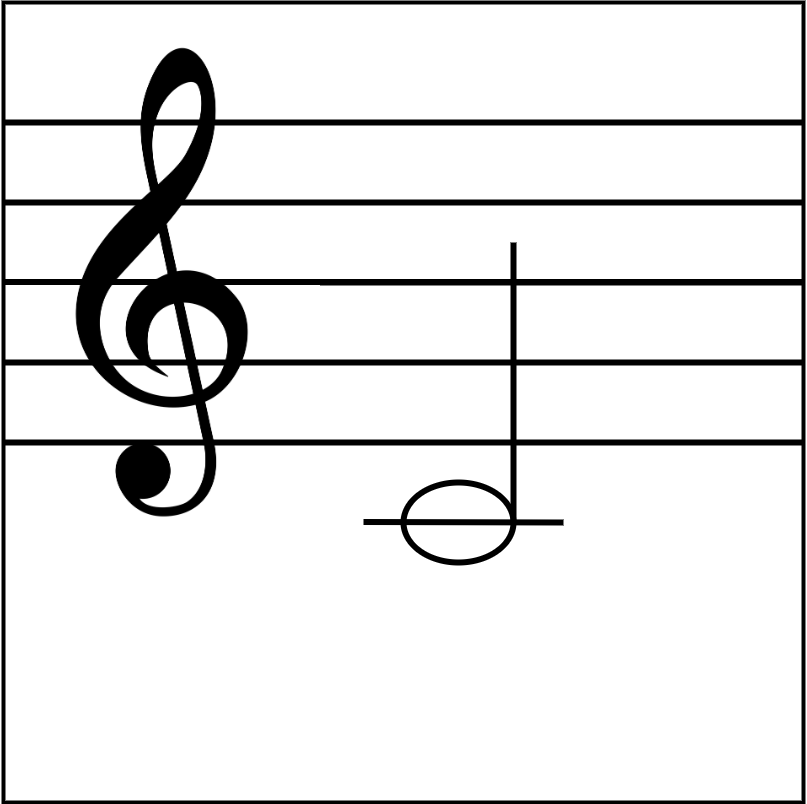
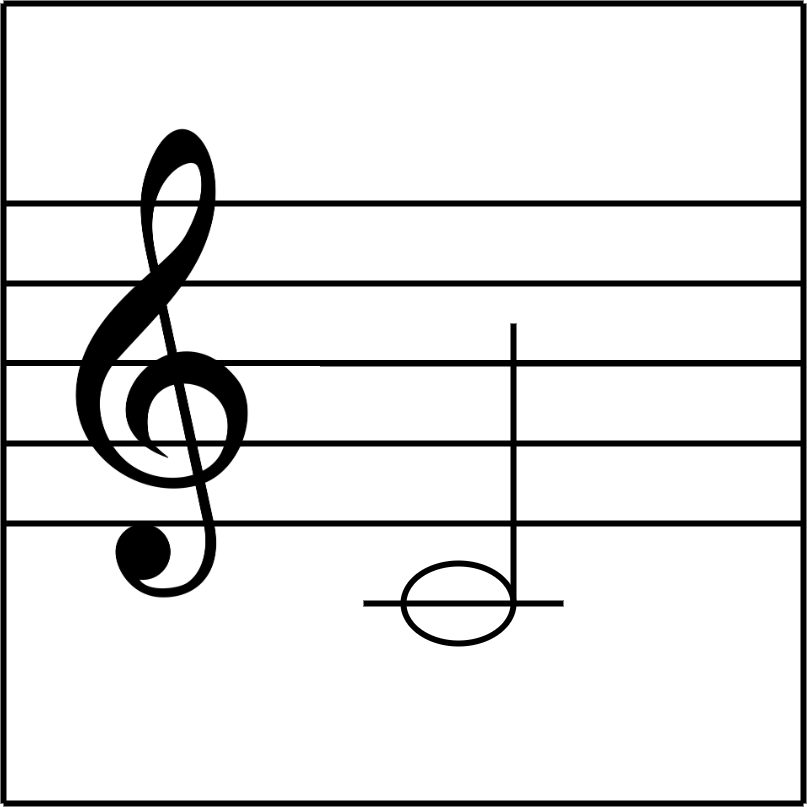
aniado nuevas notas-tres octavas de Mi

Changed region(s): [[0.0, 0.0, 1.0, 1.0], [0.6196, 0.3109, 0.6506, 0.4042]]

diff --git a/FlashcardsPrueba.py b/FlashcardsPrueba.py
@@ -11,11 +11,23 @@ flashcards = [
     {"pregunta": "F:/programacion/flashcards/images/NotasPentagrama/Sol.png", "respuesta": "F:/programacion/flashcards/images/NotasPentagrama/R_Sol.png"},
     {"pregunta": "F:/programacion/flashcards/images/NotasPentagrama/La.png", "respuesta": "F:/programacion/flashcards/images/NotasPentagrama/R_La.png"},
     {"pregunta": "F:/programacion/flashcards/images/NotasPentagrama/Si.png", "respuesta": "F:/programacion/flashcards/images/NotasPentagrama/R_Si.png"},
+
     {"pregunta": "F:/programacion/flashcards/images/NotasPentagrama/Do2.png", "respuesta": "F:/programacion/flashcards/images/NotasPentagrama/R_Do.png"},
+    {"pregunta": "F:/programacion/flashcards/images/NotasPentagrama/Re2.png", "respuesta": "F:/programacion/flashcards/images/NotasPentagrama/R_Re.png"},
+    {"pregunta": "F:/programacion/flashcards/images/NotasPentagrama/Mi2.png", "respuesta": "F:/programacion/flashcards/images/NotasPentagrama/R_Mi.png"},
+    {"pregunta": "F:/programacion/flashcards/images/NotasPentagrama/Fa2.png", "respuesta": "F:/programacion/flashcards/images/NotasPentagrama/R_Fa.png"},
+    {"pregunta": "F:/programacion/flashcards/images/NotasPentagrama/Sol2.png", "respuesta": "F:/programacion/flashcards/images/NotasPentagrama/R_Sol.png"},
+    
+    {"pregunta": "F:/programacion/flashcards/images/NotasPentagrama/Mi3.png", "respuesta": "F:/programacion/flashcards/images/NotasPentagrama/R_Mi.png"},
+    {"pregunta": "F:/programacion/flashcards/images/NotasPentagrama/Fa3.png", "respuesta": "F:/programacion/flashcards/images/NotasPentagrama/R_Fa.png"},
+    {"pregunta": "F:/programacion/flashcards/images/NotasPentagrama/Sol3.png", "respuesta": "F:/programacion/flashcards/images/NotasPentagrama/R_Sol.png"},
+    {"pregunta": "F:/programacion/flashcards/images/NotasPentagrama/La3.png", "respuesta": "F:/programacion/flashcards/images/NotasPentagrama/R_La.png"},
+    {"pregunta": "F:/programacion/flashcards/images/NotasPentagrama/Si3.png", "respuesta": "F:/programacion/flashcards/images/NotasPentagrama/R_Si.png"},
 
 ]
 import tkinter as tk
 from PIL import Image, ImageTk
+
 class FlashcardApp:
     def __init__(self, root):
         self.root = root
@@ -31,36 +43,53 @@ class FlashcardApp:
         self.flashcard_image2 = self.load_and_resize_image("F:/programacion/flashcards/images/NotasPentagrama/Cuadrado.png")
         self.flashcard_label2 = tk.Label(root, image=self.flashcard_image2)
         self.flashcard_label2.pack()
+        
+        self.root.bind("<Right>", self.next_question)
+        self.root.bind("<space>", self.show_answer)
+        
 
         self.show_answer_button = tk.Button(root, text="Mostrar Respuesta", command=self.show_answer)
+        #self.show_answer_button.place(x=10, y=810)  # Posición fija para el botón
         self.show_answer_button.pack()
 
         self.next_question_button = tk.Button(root, text="Siguiente Pregunta", command=self.next_question)
+        #self.next_question_button.place(x=150, y=810)  # Posición fija para el botón
         self.next_question_button.pack()
-
-        # Configura la vinculación de eventos de teclado
-        self.root.bind("<Right>", self.next_question)
-        self.root.bind("<space>", self.show_answer)
 
     def load_and_resize_image(self, image_path):
         original_image = Image.open(image_path)
         resized_image = original_image.resize((400, 400), Image.ANTIALIAS)
         return ImageTk.PhotoImage(resized_image)
+    def load_and_resize_image2(self, image_path):
+        original_image = Image.open(image_path)
+        resized_image = original_image.resize((400, 400), Image.ANTIALIAS)
+        return ImageTk.PhotoImage(resized_image)
 
-    def show_answer(self, event=None):
-            self.flashcard_image2 = self.load_and_resize_image(flashcards[self.current_flashcard]["respuesta"])
-            self.flashcard_label2.config(image=self.flashcard_image2)
-            self.showing_answer = True
-
-    def next_question(self, event=None):
-        self.showing_answer = False
-        self.current_flashcard = random.randint(0, len(flashcards) - 1)
-        self.flashcard_image = self.load_and_resize_image(flashcards[self.current_flashcard]["pregunta"])
+    def show_answer(self,event=None):
+        self.flashcard_image = self.load_and_resize_image2(flashcards[self.current_flashcard]["pregunta"])
         self.flashcard_label.config(image=self.flashcard_image)
+                
+        self.flashcard_image2 = self.load_and_resize_image2(flashcards[self.current_flashcard]["respuesta"])
+        self.flashcard_label2.config(image=self.flashcard_image2)
 
-        self.flashcard_image2 = self.load_and_resize_image("F:/programacion/flashcards/images/NotasPentagrama/Cuadrado.png")
-        self.flashcard_label2 = tk.Label(root, image=self.flashcard_image2)
-        self.flashcard_label2.pack()
+
+        self.showing_answer = True
+#wd
+    def next_question(self,event=None):
+        
+            self.showing_answer = False
+            self.flashcard_image2 = self.load_and_resize_image("F:/programacion/flashcards/images/NotasPentagrama/Cuadrado.png")
+
+            self.flashcard_label2.config(image=self.flashcard_image2)
+            
+            #self.current_flashcard += 1
+            #print(len(flashcards))
+            self.current_flashcard=random.randint(0, len(flashcards)-1)
+            #if self.current_flashcard >= len(flashcards):
+            #    self.current_flashcard = 0
+            self.flashcard_image = self.load_and_resize_image(flashcards[self.current_flashcard]["pregunta"])
+            self.flashcard_label.config(image=self.flashcard_image)
+            
 
 if __name__ == "__main__":
     root = tk.Tk()

diff --git a/Flashcards.py b/Flashcards.py
@@ -11,7 +11,18 @@ flashcards = [
     {"pregunta": "F:/programacion/flashcards/images/NotasPentagrama/Sol.png", "respuesta": "F:/programacion/flashcards/images/NotasPentagrama/R_Sol.png"},
     {"pregunta": "F:/programacion/flashcards/images/NotasPentagrama/La.png", "respuesta": "F:/programacion/flashcards/images/NotasPentagrama/R_La.png"},
     {"pregunta": "F:/programacion/flashcards/images/NotasPentagrama/Si.png", "respuesta": "F:/programacion/flashcards/images/NotasPentagrama/R_Si.png"},
+
     {"pregunta": "F:/programacion/flashcards/images/NotasPentagrama/Do2.png", "respuesta": "F:/programacion/flashcards/images/NotasPentagrama/R_Do.png"},
+    {"pregunta": "F:/programacion/flashcards/images/NotasPentagrama/Re2.png", "respuesta": "F:/programacion/flashcards/images/NotasPentagrama/R_Re.png"},
+    {"pregunta": "F:/programacion/flashcards/images/NotasPentagrama/Mi2.png", "respuesta": "F:/programacion/flashcards/images/NotasPentagrama/R_Mi.png"},
+    {"pregunta": "F:/programacion/flashcards/images/NotasPentagrama/Fa2.png", "respuesta": "F:/programacion/flashcards/images/NotasPentagrama/R_Fa.png"},
+    {"pregunta": "F:/programacion/flashcards/images/NotasPentagrama/Sol2.png", "respuesta": "F:/programacion/flashcards/images/NotasPentagrama/R_Sol.png"},
+    
+    {"pregunta": "F:/programacion/flashcards/images/NotasPentagrama/Mi3.png", "respuesta": "F:/programacion/flashcards/images/NotasPentagrama/R_Mi.png"},
+    {"pregunta": "F:/programacion/flashcards/images/NotasPentagrama/Fa3.png", "respuesta": "F:/programacion/flashcards/images/NotasPentagrama/R_Fa.png"},
+    {"pregunta": "F:/programacion/flashcards/images/NotasPentagrama/Sol3.png", "respuesta": "F:/programacion/flashcards/images/NotasPentagrama/R_Sol.png"},
+    {"pregunta": "F:/programacion/flashcards/images/NotasPentagrama/La3.png", "respuesta": "F:/programacion/flashcards/images/NotasPentagrama/R_La.png"},
+    {"pregunta": "F:/programacion/flashcards/images/NotasPentagrama/Si3.png", "respuesta": "F:/programacion/flashcards/images/NotasPentagrama/R_Si.png"},
 
 ]
 import tkinter as tk
